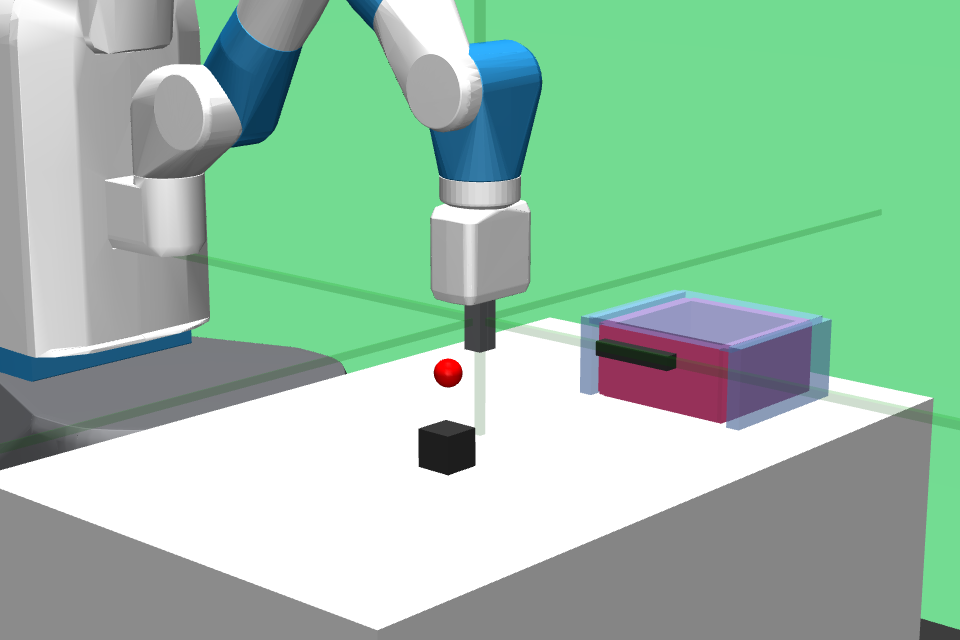
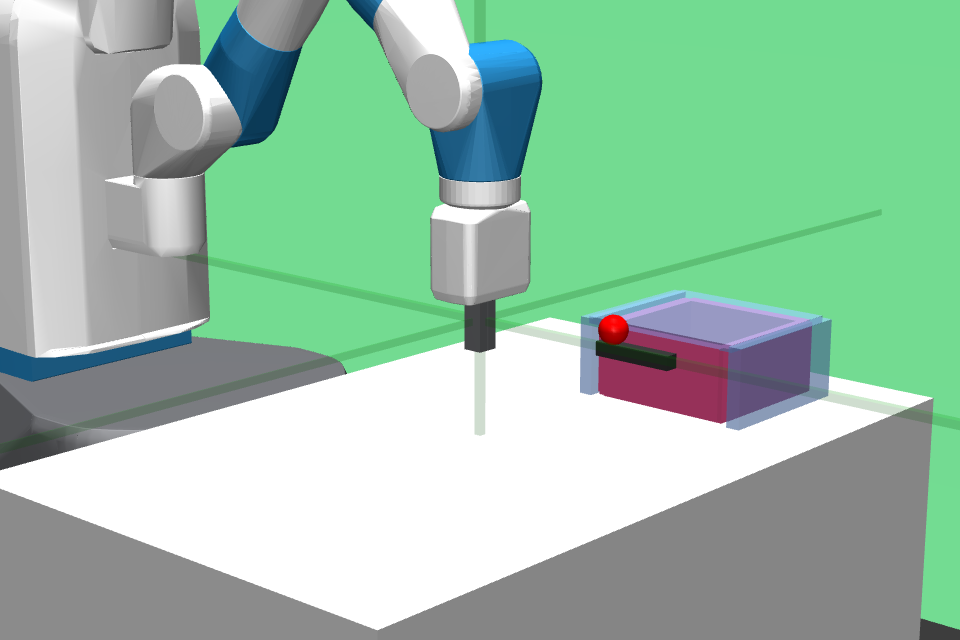
add tasks to place an object into a box or a drawer.

Changed region(s): [[0.4375, 0.6562, 0.5, 0.75], [0.625, 0.4688, 0.6562, 0.5625], [0.4375, 0.5625, 0.5, 0.625]]

diff --git a/fetch/common/robot_env.py b/fetch/common/robot_env.py
@@ -9,12 +9,19 @@ from gym.utils import seeding
 try:
     import mujoco_py
 except ImportError as e:
-    raise error.DependencyNotInstalled("{}. (HINT: you need to install mujoco_py, and also perform the setup instructions here: https://github.com/openai/mujoco-py/.)".format(e))
+    raise error.DependencyNotInstalled(
+        f"{e}. (HINT: you need to install mujoco_py, and also perform the setup instructions here: https://github.com/openai/mujoco-py/.)")
 
 DEFAULT_SIZE = 500
 
+
 class RobotEnv(gym.GoalEnv):
-    def __init__(self, model_path, initial_qpos, n_actions, n_substeps):
+    def __init__(self, model_path, initial_qpos, n_actions, n_substeps,
+                 view_mode='rgb', width=None, height=None):
+        self.view_mode = view_mode
+        self.width = width or DEFAULT_SIZE
+        self.height = height or DEFAULT_SIZE
+
         if model_path.startswith('/'):
             fullpath = model_path
         else:
@@ -91,15 +98,44 @@ class RobotEnv(gym.GoalEnv):
             self._viewers = {}
 
     def render(self, mode='human', width=DEFAULT_SIZE, height=DEFAULT_SIZE):
+        mode = mode or self.view_mode
+        width = width or self.width
+        height = height or self.height
+        viewer = self._get_viewer(mode)
+
         self._render_callback()
-        if mode == 'rgb_array':
-            self._get_viewer(mode).render(width, height)
-            # window size used for old mujoco-py:
-            data = self._get_viewer(mode).read_pixels(width, height, depth=False)
+
+        if mode in ['rgb', 'rgb_array']:
+            viewer.render(width, height)
+            data = viewer.read_pixels(width, height, depth=False)
+            return data[::-1, :, :].astype(np.uint8)
+        elif mode == 'rgbd':
+            viewer.render(width, height)
+            rgb, d = viewer.read_pixels(width, height, depth=True)
+            return rgb[::-1, :, :], d[::-1, :]
+        elif mode == 'depth':
+            viewer.render(width, height)
+            _, d = viewer.read_pixels(width, height, depth=True)
+            return d[::-1, :]
+        elif mode == 'grey':
+            viewer.render(width, height)
+            data = viewer.read_pixels(width, height, depth=False)
             # original image is upside-down, so flip it
-            return data[::-1, :, :]
+            return data[::-1, :, :].mean(axis=-1).astype(np.uint8)
+        elif mode == "notebook":
+            from IPython.display import display
+            from PIL import Image
+
+            viewer.render(width, height)
+            data = viewer.read_pixels(width, height, depth=False)
+            # original image is upside-down, so flip it
+            display(Image.fromarray(data[::-1, :, :]))
+
         elif mode == 'human':
-            self._get_viewer(mode).render()
+            if width and height:
+                import glfw
+                glfw.set_window_size(viewer.window, width, height)
+            viewer.render()
 
     def _get_viewer(self, mode):
         self.viewer = self._viewers.get(mode)

diff --git a/specs/README.py b/specs/README.py
@@ -62,28 +62,53 @@ Reach-v2    | Push-v2    | PickPlace-v2 | Slide-v2
 doc @ f"""
 # Single Task Environments for Primitives
 
+The tasks involve a single primitive action such as
+open/closing a box, or a drawer. They do not additionally
+involve placing an object into the opened drawer or box.
+We include bin picking and placing because the bin does
+not require an additional action to open.
+
  Name            | Status
----------------- | -------------------------
- Bin-picking-v2  | ✅ done
+---------------- | -------------
+ Bin-pick-v2     | ✅ done
+ Bin-place-v2    | ✅ done
  Box-open-v2     | ✅ done
  Box-close-v2    | ✅ done
  Drawer-open-v2  | ✅ done
  Drawer-close-v2 | ✅ done
 
-The environments look like the following:
-
- Box-open-v0 | Box-close-v0 | Bin-picking-v0 
- :---------: | :----------: | :------------:
- {render('fetch:Box-open-v0', 0.7)} | {render('fetch:Box-close-v0')} | {render('fetch:Bin-picking-v0', 0.7)}
+ Box-open-v0 | Box-close-v0 | Bin-pick-v0 | Bin-place-v0
+ :---------: | :----------: | :---------: | :----------: 
+ {render('fetch:Box-open-v0', 0.7)} | {render('fetch:Box-close-v0')} | {render('fetch:Bin-pick-v0', 0.7)} | {render('fetch:Bin-place-v0', 0.7)}
  **Drawer-open-v0** | **Drawer-close-v0** | 
  {render('fetch:Drawer-open-v0')} | {render('fetch:Drawer-close-v0')} |
+
+# Intermediate Task
+
+These tasks additionally require placing the object
+inside an open drawer or box. We include the `Bin-picking` 
+environment for completeness.
+
+ Name            | Status
+---------------- | --------------
+ Bin-pick-v2     | ✅ done
+ Bin-place-v2    | ✅ done
+ Box-place-v2    | ✅ done
+ Box-pick-v2     | ✅ done
+ Drawer-place-v2 | ✅ done
+ Drawer-pick-v2  | ✅ done
+
+ Bin-pick-v0 | Bin-place-v0 | Box-pick-v0  | Box-place-v0 
+ :---------: | :----------: | :----------: | :----------:
+ {render('fetch:Bin-pick-v0', 0.7)} | {render('fetch:Bin-place-v0')} | {render('fetch:Box-pick-v0', 0.7)} | {render('fetch:Box-place-v0', 0.7)}
+ **Drawer-pick-v0** | **Drawer-place-v0 ** |
+ {render('fetch:Drawer-pick-v0')} | {render('fetch:Drawer-place-v0')} |
 
 # Multi-task Environments
 
 These environments require significantly more memory due
 to the increasing complexity of contact detection and 
 collision dynamics. These are also slower to run.
-
 
   Name            |  Render
  ---------------- | :---------------:

diff --git a/fetch/__init__.py b/fetch/__init__.py
@@ -1,15 +1,28 @@
-from .box import BoxEnv
-from .bin import BinEnv
-from .drawer import DrawerEnv
-
 from gym.envs.registration import register
 
+from .box import BoxEnv
+from .bin import BinEnv
+from .box_block import BoxBlockEnv
+from .drawer import DrawerEnv
+from .drawer_block import DrawerBlockEnv
 from .mixed_envs.box_bin import BoxBinEnv
 from .mixed_envs.drawer_bin import DrawerBinEnv
 from .mixed_envs.box_bin_drawer import BoxBinDrawerEnv
 
 kwargs = {}
 # Fetch
+register(
+    id='Bin-pick-v0',
+    entry_point=BinEnv,
+    kwargs=dict(action="pick", **kwargs),
+    max_episode_steps=50,
+)
+register(
+    id='Bin-place-v0',
+    entry_point=BinEnv,
+    kwargs=dict(action="place", **kwargs),
+    max_episode_steps=50,
+)
 register(
     id='Box-open-v0',
     entry_point=BoxEnv,
@@ -23,9 +36,15 @@ register(
     max_episode_steps=50,
 )
 register(
-    id='Bin-picking-v0',
-    entry_point=BinEnv,
-    kwargs=dict(action="close", **kwargs),
+    id='Box-pick-v0',
+    entry_point=BoxBlockEnv,
+    kwargs=dict(action="pick", **kwargs),
+    max_episode_steps=50,
+)
+register(
+    id='Box-place-v0',
+    entry_point=BoxBlockEnv,
+    kwargs=dict(action="place", **kwargs),
     max_episode_steps=50,
 )
 register(
@@ -38,6 +57,18 @@ register(
     id='Drawer-close-v0',
     entry_point=DrawerEnv,
     kwargs=dict(action="close", **kwargs),
+    max_episode_steps=50,
+)
+register(
+    id='Drawer-pick-v0',
+    entry_point=DrawerBlockEnv,
+    kwargs=dict(action="pick", **kwargs),
+    max_episode_steps=50,
+)
+register(
+    id='Drawer-place-v0',
+    entry_point=DrawerBlockEnv,
+    kwargs=dict(action="place", **kwargs),
     max_episode_steps=50,
 )
 register(

diff --git a/fetch/drawer_block.py b/fetch/drawer_block.py
@@ -3,17 +3,18 @@ from gym import utils
 from . import fetch_env
 
 
-class BoxEnv(fetch_env.FetchEnv, utils.EzPickle):
+class DrawerBlockEnv(fetch_env.FetchEnv, utils.EzPickle):
     def __init__(self, action, reward_type='sparse'):
         initial_qpos = {
             'robot0:slide0': 0.405,
             'robot0:slide1': 0.48,
             'robot0:slide2': 0.0,
-            'box:joint': [1.25, 0.53, 0.4, 1, 0., 0., 0.],
-            'lid:joint': [1.25, 0.53 if action == "open" else 0.95, 1, 1, 0., 0., 0.],
+            'object0:joint': [1.25, 0.53, 0.4, 1., 0., 0., 0.],
+            'drawer:joint': [1.45, 1.1 if action == "open" else 0.9, 0.4, 1, 0., 0., 0.],
+            'cabinet:joint': [1.45, 1.1, 1, 1, 0., 0., 0.],
         }
         fetch_env.FetchEnv.__init__(
-            self, "box.xml", has_object=False, block_gripper=False, n_substeps=20,
+            self, "drawer_block.xml", has_object=True, block_gripper=False, n_substeps=20,
             gripper_extra_height=0.2, target_in_the_air=True, target_offset=0.0,
             obj_range=0.15, target_range=0.15, distance_threshold=0.05,
             initial_qpos=initial_qpos, reward_type=reward_type)

diff --git a/fetch/box_block.py b/fetch/box_block.py
@@ -3,17 +3,18 @@ from gym import utils
 from . import fetch_env
 
 
-class BoxEnv(fetch_env.FetchEnv, utils.EzPickle):
+class BoxBlockEnv(fetch_env.FetchEnv, utils.EzPickle):
     def __init__(self, action, reward_type='sparse'):
         initial_qpos = {
             'robot0:slide0': 0.405,
             'robot0:slide1': 0.48,
             'robot0:slide2': 0.0,
+            'object0:joint': [1.25, 0.53, 0.4, 1., 0., 0., 0.],
             'box:joint': [1.25, 0.53, 0.4, 1, 0., 0., 0.],
             'lid:joint': [1.25, 0.53 if action == "open" else 0.95, 1, 1, 0., 0., 0.],
         }
         fetch_env.FetchEnv.__init__(
-            self, "box.xml", has_object=False, block_gripper=False, n_substeps=20,
+            self, "box_block.xml", has_object=True, block_gripper=False, n_substeps=20,
             gripper_extra_height=0.2, target_in_the_air=True, target_offset=0.0,
             obj_range=0.15, target_range=0.15, distance_threshold=0.05,
             initial_qpos=initial_qpos, reward_type=reward_type)

diff --git a/fetch/drawer.py b/fetch/drawer.py
@@ -9,12 +9,11 @@ class DrawerEnv(fetch_env.FetchEnv, utils.EzPickle):
             'robot0:slide0': 0.405,
             'robot0:slide1': 0.48,
             'robot0:slide2': 0.0,
-            'object0:joint': [1.25, 0.53, 0.4, 1., 0., 0., 0.],
             'drawer:joint': [1.45, 1.1 if action == "open" else 0.9, 0.4, 1, 0., 0., 0.],
             'cabinet:joint': [1.45, 1.1, 1, 1, 0., 0., 0.],
         }
         fetch_env.FetchEnv.__init__(
-            self, "drawer.xml", has_object=True, block_gripper=False, n_substeps=20,
+            self, "drawer.xml", has_object=False, block_gripper=False, n_substeps=20,
             gripper_extra_height=0.2, target_in_the_air=True, target_offset=0.0,
             obj_range=0.15, target_range=0.15, distance_threshold=0.05,
             initial_qpos=initial_qpos, reward_type=reward_type)

diff --git a/README.md b/README.md
@@ -38,28 +38,53 @@ Reach-v2    | Push-v2    | PickPlace-v2 | Slide-v2
 
 # Single Task Environments for Primitives
 
+The tasks involve a single primitive action such as
+open/closing a box, or a drawer. They do not additionally
+involve placing an object into the opened drawer or box.
+We include bin picking and placing because the bin does
+not require an additional action to open.
+
  Name            | Status
----------------- | -------------------------
- Bin-picking-v2  | ✅ done
+---------------- | -------------
+ Bin-pick-v2     | ✅ done
+ Bin-place-v2    | ✅ done
  Box-open-v2     | ✅ done
  Box-close-v2    | ✅ done
  Drawer-open-v2  | ✅ done
  Drawer-close-v2 | ✅ done
 
-The environments look like the following:
-
- Box-open-v0 | Box-close-v0 | Bin-picking-v0 
- :---------: | :----------: | :------------:
- <img style="align-self:center;" src="figures/Box-open-v0.png" /> | <img style="align-self:center;" src="figures/Box-close-v0.png" /> | <img style="align-self:center;" src="figures/Bin-picking-v0.png" />
+ Box-open-v0 | Box-close-v0 | Bin-pick-v0 | Bin-place-v0
+ :---------: | :----------: | :---------: | :----------: 
+ <img style="align-self:center;" src="figures/Box-open-v0.png" /> | <img style="align-self:center;" src="figures/Box-close-v0.png" /> | <img style="align-self:center;" src="figures/Bin-pick-v0.png" /> | <img style="align-self:center;" src="figures/Bin-place-v0.png" />
  **Drawer-open-v0** | **Drawer-close-v0** | 
  <img style="align-self:center;" src="figures/Drawer-open-v0.png" /> | <img style="align-self:center;" src="figures/Drawer-close-v0.png" /> |
+
+# Intermediate Task
+
+These tasks additionally require placing the object
+inside an open drawer or box. We include the `Bin-picking` 
+environment for completeness.
+
+ Name            | Status
+---------------- | --------------
+ Bin-pick-v2     | ✅ done
+ Bin-place-v2    | ✅ done
+ Box-place-v2    | ✅ done
+ Box-pick-v2     | ✅ done
+ Drawer-place-v2 | ✅ done
+ Drawer-pick-v2  | ✅ done
+
+ Bin-pick-v0 | Bin-place-v0 | Box-pick-v0  | Box-place-v0 
+ :---------: | :----------: | :----------: | :----------:
+ <img style="align-self:center;" src="figures/Bin-pick-v0.png" /> | <img style="align-self:center;" src="figures/Bin-place-v0.png" /> | <img style="align-self:center;" src="figures/Box-pick-v0.png" /> | <img style="align-self:center;" src="figures/Box-place-v0.png" />
+ **Drawer-pick-v0** | **Drawer-place-v0 ** |
+ <img style="align-self:center;" src="figures/Drawer-pick-v0.png" /> | <img style="align-self:center;" src="figures/Drawer-place-v0.png" /> |
 
 # Multi-task Environments
 
 These environments require significantly more memory due
 to the increasing complexity of contact detection and 
 collision dynamics. These are also slower to run.
-
 
   Name            |  Render
  ---------------- | :---------------:

diff --git a/specs/README.md b/specs/README.md
@@ -38,28 +38,53 @@ Reach-v2    | Push-v2    | PickPlace-v2 | Slide-v2
 
 # Single Task Environments for Primitives
 
+The tasks involve a single primitive action such as
+open/closing a box, or a drawer. They do not additionally
+involve placing an object into the opened drawer or box.
+We include bin picking and placing because the bin does
+not require an additional action to open.
+
  Name            | Status
----------------- | -------------------------
- Bin-picking-v2  | ✅ done
+---------------- | -------------
+ Bin-pick-v2     | ✅ done
+ Bin-place-v2    | ✅ done
  Box-open-v2     | ✅ done
  Box-close-v2    | ✅ done
  Drawer-open-v2  | ✅ done
  Drawer-close-v2 | ✅ done
 
-The environments look like the following:
-
- Box-open-v0 | Box-close-v0 | Bin-picking-v0 
- :---------: | :----------: | :------------:
- <img style="align-self:center;" src="figures/Box-open-v0.png" /> | <img style="align-self:center;" src="figures/Box-close-v0.png" /> | <img style="align-self:center;" src="figures/Bin-picking-v0.png" />
+ Box-open-v0 | Box-close-v0 | Bin-pick-v0 | Bin-place-v0
+ :---------: | :----------: | :---------: | :----------: 
+ <img style="align-self:center;" src="figures/Box-open-v0.png" /> | <img style="align-self:center;" src="figures/Box-close-v0.png" /> | <img style="align-self:center;" src="figures/Bin-pick-v0.png" /> | <img style="align-self:center;" src="figures/Bin-place-v0.png" />
  **Drawer-open-v0** | **Drawer-close-v0** | 
  <img style="align-self:center;" src="figures/Drawer-open-v0.png" /> | <img style="align-self:center;" src="figures/Drawer-close-v0.png" /> |
+
+# Intermediate Task
+
+These tasks additionally require placing the object
+inside an open drawer or box. We include the `Bin-picking` 
+environment for completeness.
+
+ Name            | Status
+---------------- | --------------
+ Bin-pick-v2     | ✅ done
+ Bin-place-v2    | ✅ done
+ Box-place-v2    | ✅ done
+ Box-pick-v2     | ✅ done
+ Drawer-place-v2 | ✅ done
+ Drawer-pick-v2  | ✅ done
+
+ Bin-pick-v0 | Bin-place-v0 | Box-pick-v0  | Box-place-v0 
+ :---------: | :----------: | :----------: | :----------:
+ <img style="align-self:center;" src="figures/Bin-pick-v0.png" /> | <img style="align-self:center;" src="figures/Bin-place-v0.png" /> | <img style="align-self:center;" src="figures/Box-pick-v0.png" /> | <img style="align-self:center;" src="figures/Box-place-v0.png" />
+ **Drawer-pick-v0** | **Drawer-place-v0 ** |
+ <img style="align-self:center;" src="figures/Drawer-pick-v0.png" /> | <img style="align-self:center;" src="figures/Drawer-place-v0.png" /> |
 
 # Multi-task Environments
 
 These environments require significantly more memory due
 to the increasing complexity of contact detection and 
 collision dynamics. These are also slower to run.
-
 
   Name            |  Render
  ---------------- | :---------------:
